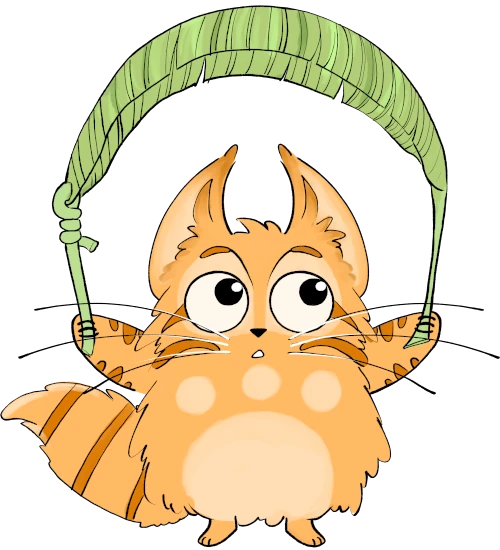
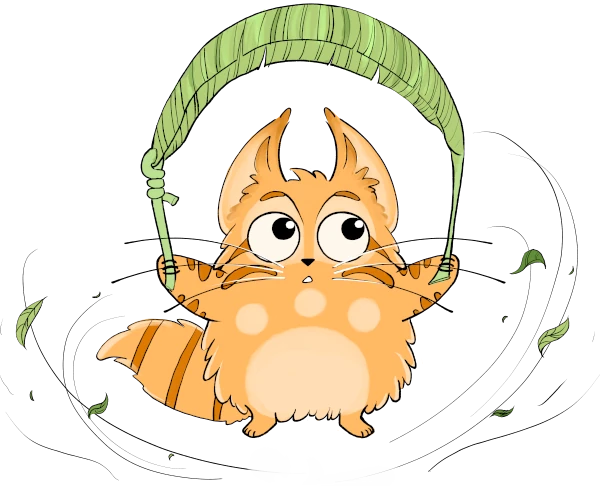
better intro poster

diff --git a/app/components/content/HomeIntro.vue b/app/components/content/HomeIntro.vue
@@ -28,7 +28,7 @@ const { data } = useAsyncData(
   <div class="container mx-auto">
     <div
       v-if="data"
-      class="flex flex-col md:flex-row items-center gap-0 md:gap-8"
+      class="flex flex-col md:flex-row items-center gap-2 md:gap-10"
     >
       <div class="w-full md:w-1/2 flex flex-col justify-end">
         <h2
@@ -46,19 +46,16 @@ const { data } = useAsyncData(
           {{ $t("more") }}...
         </NuxtLink>
       </div>
-      <div class="w-full md:w-1/2 flex justify-center">
-        <nuxt-img
-          provider="cloudflare"
-          :modifiers="{ fit: 'contain' }"
-          preload
-          loading="lazy"
-          class="w-full max-w-md rounded-lg object-cover"
-          :src="data.thumbnail"
-          :alt="data.title || 'Image'"
-          :placeholder="[300]"
-          sizes="100vw sm:50vw md:400px"
-        />
-      </div>
+      <nuxt-img
+        :modifiers="{ fit: 'contain' }"
+        preload
+        loading="lazy"
+        class="w-full md:w-1/2 flex justify-center"
+        :src="data.thumbnail"
+        :alt="data.title || 'Image'"
+        :placeholder="[400]"
+        sizes="100vw sm:50vw md:400px"
+      />
     </div>
     <div v-else>
       <div class="flex flex-col md:flex-row items-center gap-0 md:gap-8">
